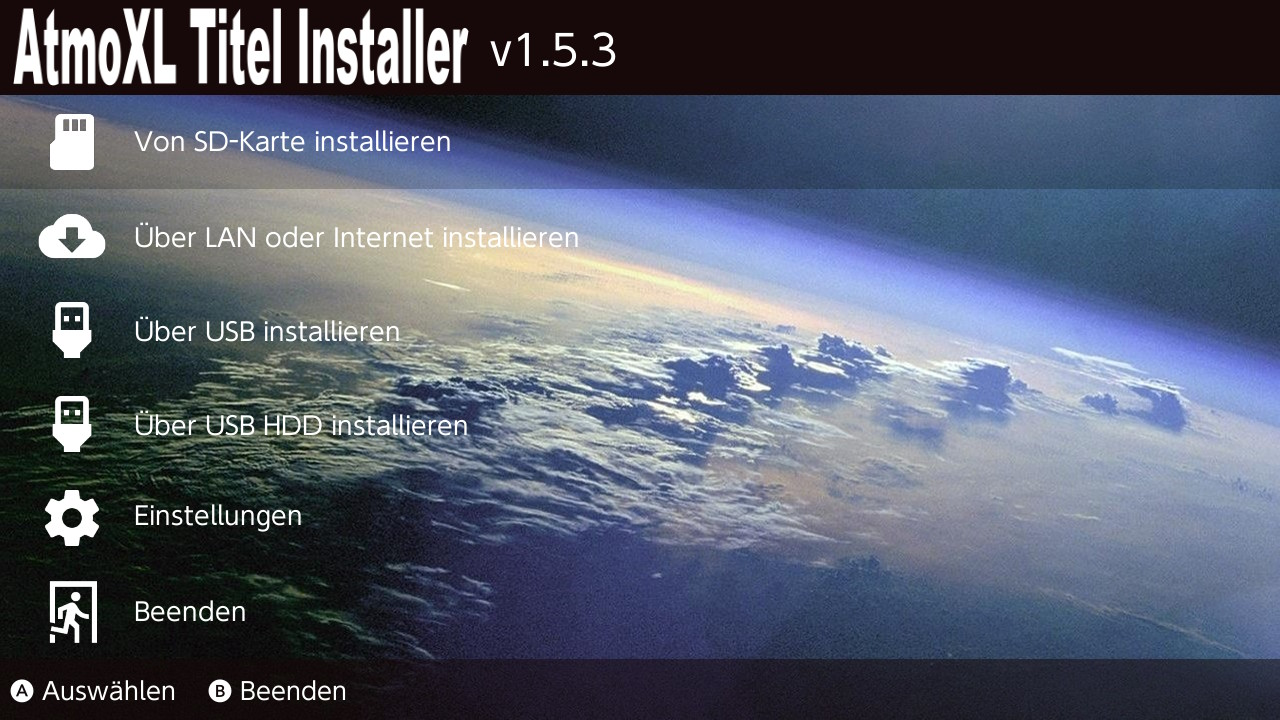
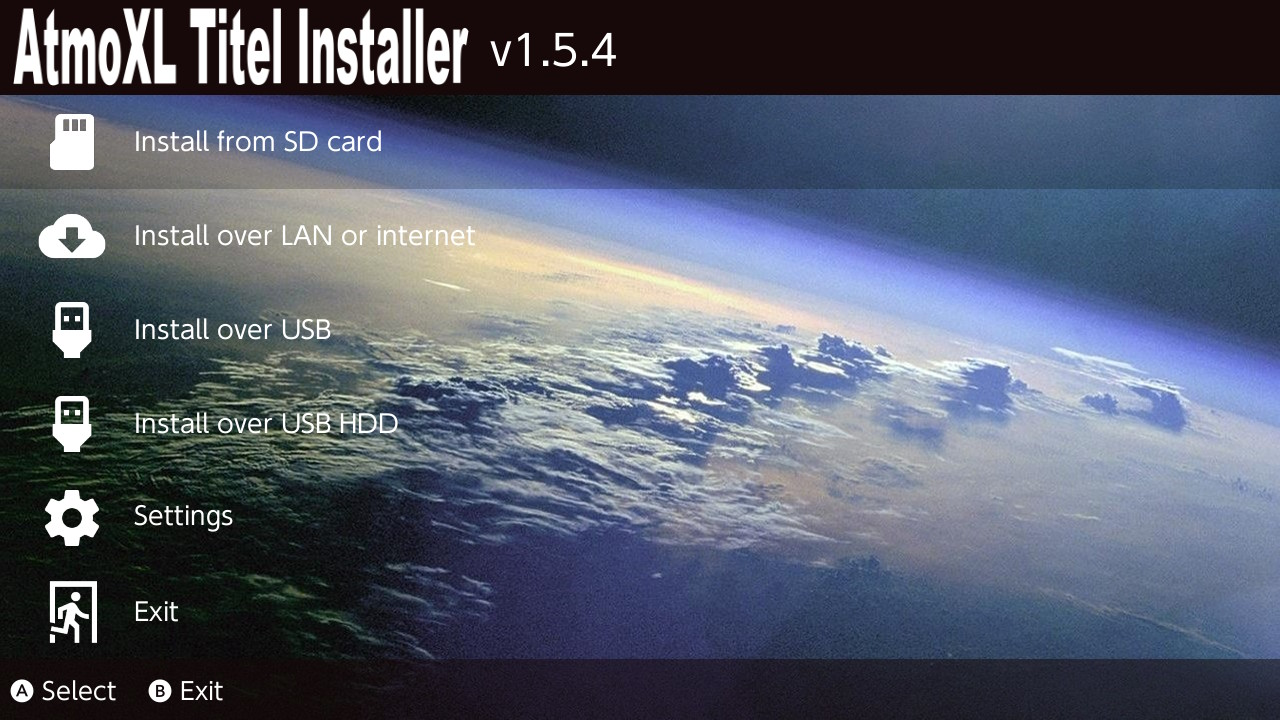
push version

diff --git a/include/util/config.hpp b/include/util/config.hpp
@@ -5,7 +5,7 @@
 namespace inst::config {
     static const std::string appDir = "sdmc:/switch/AtmoXL-Titel-Installer";
     static const std::string configPath = appDir + "/config.json";
-    static const std::string appVersion = "1.5.3";
+    static const std::string appVersion = "1.5.4";
 
     extern std::string gAuthKey;
     extern std::string lastNetUrl;
